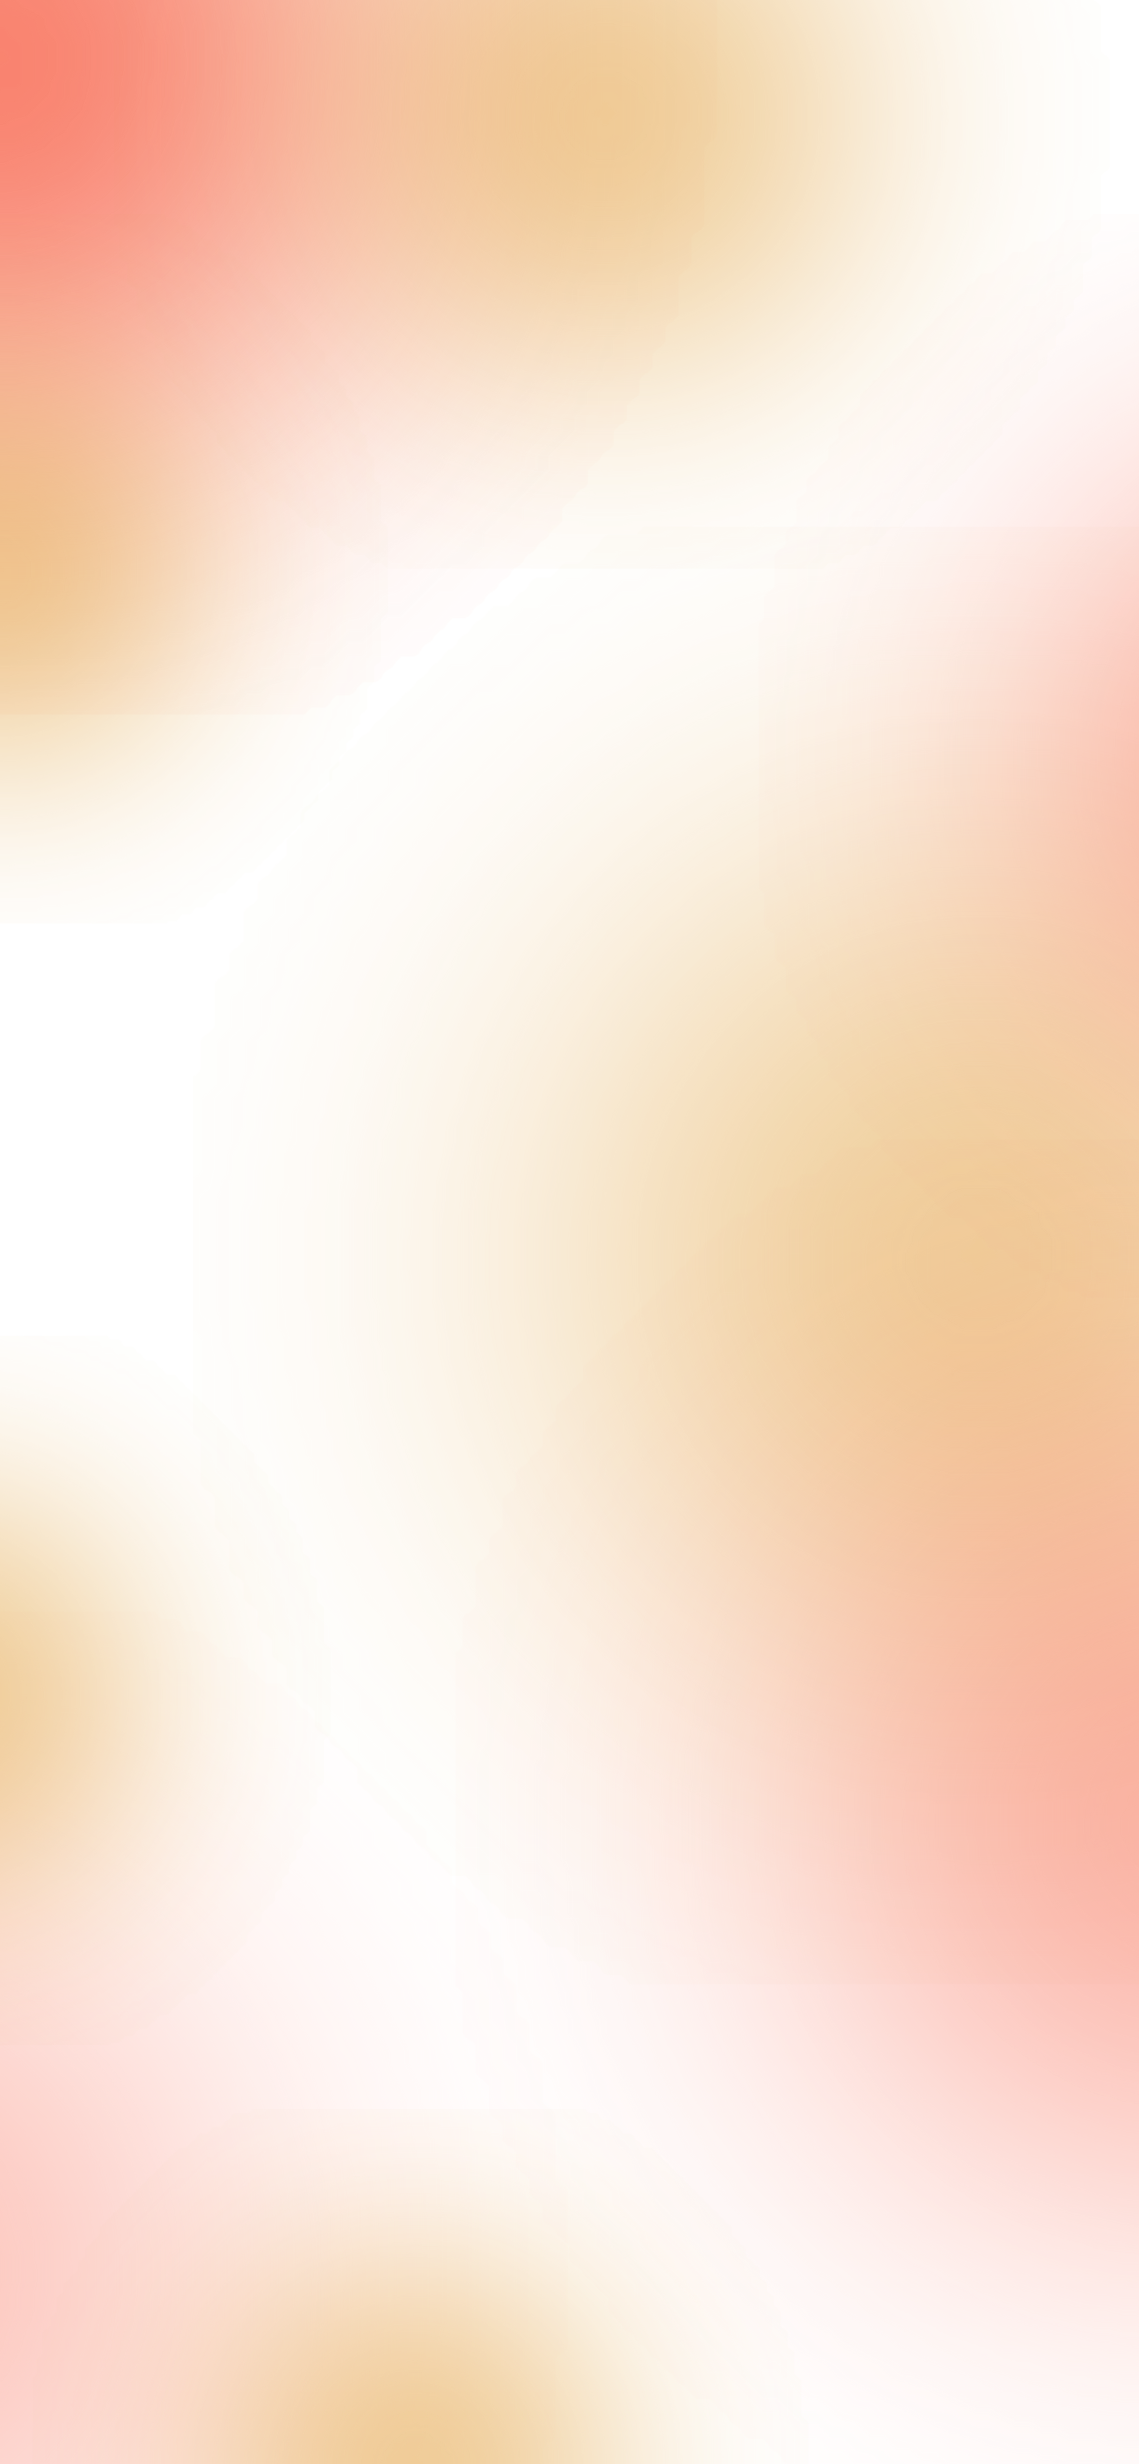
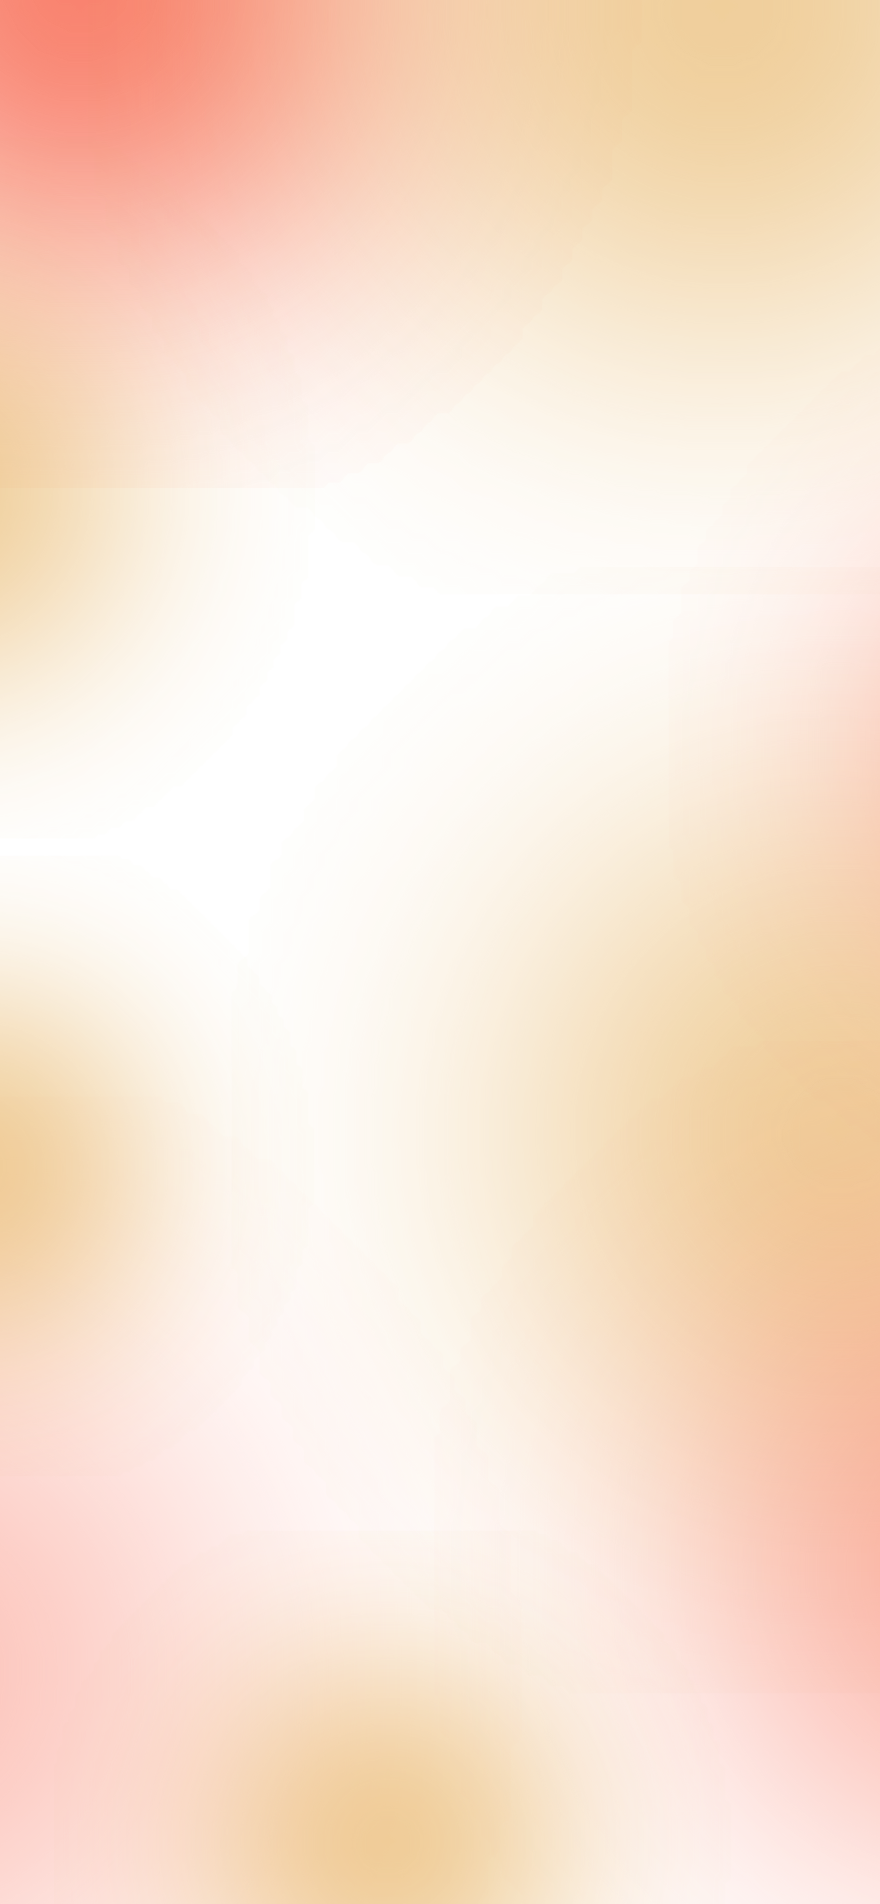
Logout and signin function
- Add Logout function
- Fix signin cancellation bug
- change background

diff --git a/screens/CalendarPage.js b/screens/CalendarPage.js
@@ -16,17 +16,19 @@ import FontAwesome5 from 'react-native-vector-icons/FontAwesome5';
 import FontAwesome from 'react-native-vector-icons/FontAwesome';
 import styles from '../styles/appStyles';
 import { TaskContext } from '../context/TaskContext';
+import { AuthContext } from '../context/AuthContext';
 import EditTaskModal from '../components/modals/EditTaskModal';
-import AsyncStorage from '@react-native-async-storage/async-storage';
 
 
 export default function CalendarPage () {
   const navigation = useNavigation();
   const { tasks, loadTasks, updateTask, deleteTask } = useContext(TaskContext);
+  const { signOut } = useContext(AuthContext);
   const [selectedDate, setSelectedDate] = useState('');
-  const [menuVisible, setMenuVisible] = useState(false);
   const [editModalVisible, setEditModalVisible] = useState(false);
   const [itemToEdit, setItemToEdit] = useState(null);
+  const [burgerMenuVisible, setBurgerMenuVisible] = useState(false);
+  const [profileMenuVisible, setProfileMenuVisible] = useState(false);
 
   // Load tasks on component mount
   useEffect(() => {
@@ -49,14 +51,45 @@ export default function CalendarPage () {
   }, [navigation, loadTasks]);
 
   //=========== Burger Menu ============//
-  const toggleMenu = () => {
-    setMenuVisible(!menuVisible);
+  const toggleBurgerMenu = () => {
+    setBurgerMenuVisible(!burgerMenuVisible);
   }
 
   const handleMenuItemPress = (screen, stepIdx) => {
-    setMenuVisible(false);
+    setBurgerMenuVisible(false);
 
     navigation.navigate(screen, {initialStep: stepIdx});
+  }
+  //===================================//
+
+  //=========== Profile Menu ============//
+  const toggleProfileMenu = () => {
+    setProfileMenuVisible(!profileMenuVisible);
+  }
+
+  const handleLogout = async () => {
+    setProfileMenuVisible(false);
+    Alert.alert(
+      'Log Out',
+      'Are you sure you want to log out?',
+      [
+        {
+          text: 'Cancel',
+          style: 'cancel'
+        },
+        {
+          text: 'Log Out',
+          onPress: async () => {
+            await signOut();
+            navigation.reset({
+              index: 0,
+              routes: [{ name: 'Welcome' }],
+            });
+          },
+          style: 'destructive'
+        }
+      ]
+    );
   }
   //===================================//
 
@@ -311,13 +344,13 @@ export default function CalendarPage () {
           {/* ----- App Header (menu, title, profile) ----- */}
           <View style={styles.headerRow}>
             <View style={styles.leftHeader}>
-              <TouchableOpacity onPress={toggleMenu}>
+              <TouchableOpacity onPress={toggleBurgerMenu}>
                 <FontAwesome5 name="bars" size={22} color="#461F04" />
               </TouchableOpacity>
             </View>
 
             {/* -------- Burger Menu Dropdown -------- */}
-            {menuVisible && (
+            {burgerMenuVisible && (
               <View style={styles.burgerMenu}>
                 <TouchableOpacity 
                   style={[styles.menuItem,{
@@ -327,7 +360,6 @@ export default function CalendarPage () {
                   onPress={() => handleMenuItemPress('MultiStep', 0)}>
                   <Text style={styles.menuText}>Semester</Text>
                 </TouchableOpacity>
-
                 <TouchableOpacity 
                   style={[styles.menuItem,{
                     borderBottomWidth: 1,
@@ -343,22 +375,34 @@ export default function CalendarPage () {
                   <Text style={styles.menuText}>Free Time</Text>
                 </TouchableOpacity>
               </View>
+              
             )}
 
             <View style={styles.titleWrap}>
               <Text style={styles.headerTitle}>Tomo Time</Text>
             </View>
-
-            <LinearGradient
-              colors={['#FF3F41', '#FFBE5B']}
-              start={{ x: 0, y: 0 }}
-              end={{ x: 1, y: 1 }}
-              style={styles.gradientContainer}
-            >
-              <View style={styles.profileCircle}>
-                <FontAwesome5 name="user-alt" size={18} color="#BE1C1C" />
+            
+            <TouchableOpacity onPress={toggleProfileMenu}>
+              <LinearGradient
+                colors={['#FF5F6D', '#FFC371']} // Your gradient colors
+                start={{ x: 0, y: 1 }}
+                end={{ x: 1, y: 0 }}
+                style={styles.gradientContainer}
+              >
+                  <Image source={require('../assests/images/default-profile.jpg')} style={styles.profileCircle} />
+              </LinearGradient>  
+            </TouchableOpacity>
+            
+            {/* ---------- Profile Menu Dropdown ---------- */}
+            {profileMenuVisible && (
+              <View style={styles.profileMenu}>
+                <TouchableOpacity 
+                  style={styles.menuItem}
+                  onPress={handleLogout}>
+                  <Text style={styles.menuText}>Log out</Text>
+                </TouchableOpacity>
               </View>
-            </LinearGradient>
+            )}
           </View>
 
           <View style={{ alignItems: 'center' }}>

diff --git a/screens/MultiStep.js b/screens/MultiStep.js
@@ -90,13 +90,11 @@ const stepsIndicatorStyles = {
 
 export default function MultiStep({ navigation, route}) {
 
-   //=============== USE STATES FOR INITIALIZATION ======//
+  const [profileMenuVisible, setProfileMenuVisible] = useState(false);
+  const { signOut } = useContext(AuthContext);
   const [semesters, setSemesters] = useState([]); //initialize as empty arrays
   const [classes, setClasses] = useState([]);
-  const [freeTime, setFreeTime] =useState([]);
-
-  //=============================================//
-  // =========== Use States ============ //
+  const [freeTime, setFreeTime] = useState([]);
   const [currentPosition, setCurrentPosition] = useState(0);// Step Indicator Posistion
   const [addModalVisible, setAddModalVisible] = useState(false); // Add New Item Modal Visibility
   const [editModalVisible, setEditModalVisible] = useState(false); // Edit Item Modal Visibility
@@ -107,13 +105,38 @@ export default function MultiStep({ navigation, route}) {
     step1Complete: false,
     step2Complete: false
   });
-  // =================================== //
-  
-  // Get AuthContext
   const { completeMultiStep } = useContext(AuthContext);
-  
-  //================================================//
 
+  //=========== Profile Menu ============//
+    const toggleProfileMenu = () => {
+      setProfileMenuVisible(!profileMenuVisible);
+    }
+  
+    const handleLogout = async () => {
+      setProfileMenuVisible(false);
+      Alert.alert(
+        'Log Out',
+        'Are you sure you want to log out?',
+        [
+          {
+            text: 'Cancel',
+            style: 'cancel'
+          },
+          {
+            text: 'Log Out',
+            onPress: async () => {
+              await signOut();
+              navigation.reset({
+                index: 0,
+                routes: [{ name: 'Welcome' }],
+              });
+            },
+            style: 'destructive'
+          }
+        ]
+      );
+    }
+    //===================================//
  
 
   //====== ASYNC STORAGE FUNCS -======//
@@ -628,7 +651,7 @@ export default function MultiStep({ navigation, route}) {
         </View>
 
         {/* ----- Profile Circle ----- */}
-        <TouchableOpacity>
+        <TouchableOpacity onPress={toggleProfileMenu}>
           <LinearGradient
             colors={['#FF5F6D', '#FFC371']} // Your gradient colors
             start={{ x: 0, y: 1 }}
@@ -639,6 +662,16 @@ export default function MultiStep({ navigation, route}) {
           </LinearGradient>  
         </TouchableOpacity>
         {/* ----- End of Profile Circle ----- */}
+
+        {profileMenuVisible && (
+          <View style={styles.profileMenu}>
+            <TouchableOpacity 
+              style={styles.menuItem}
+              onPress={handleLogout}>
+              <Text style={styles.menuText}>Log out</Text>
+            </TouchableOpacity>
+          </View>
+        )}
       </View>
       {/* -------- End of Header -------- */}
 

diff --git a/App.js b/App.js
@@ -1,4 +1,4 @@
-import React, { useEffect, useContext } from 'react';
+import React, { useEffect, useContext, useRef, useState } from 'react';
 import { NavigationContainer } from '@react-navigation/native';
 import { createNativeStackNavigator } from '@react-navigation/native-stack';
 import { GoogleSignin } from '@react-native-google-signin/google-signin';
@@ -26,11 +26,37 @@ const configureGoogleSignIn = () => {
 
 const Stack = createNativeStackNavigator();
 
+const NAVIGATION_STATE_KEY = '@TomoTime:navigation_state';
+
 // Navigation component that has access to AuthContext
 const AppNavigator = () => {
   const { user, isMultiStepComplete, isLoading } = useContext(AuthContext);
+  const [isNavigationReady, setIsNavigationReady] = useState(false);
+  const [initialState, setInitialState] = useState();
 
-  if (isLoading) {
+  // Load persisted navigation state
+  useEffect(() => {
+    const restoreState = async () => {
+      try {
+        const savedStateString = await AsyncStorage.getItem(NAVIGATION_STATE_KEY);
+        const state = savedStateString ? JSON.parse(savedStateString) : undefined;
+
+        if (state !== undefined) {
+          setInitialState(state);
+        }
+      } catch (e) {
+        console.error('Failed to restore navigation state:', e);
+      } finally {
+        setIsNavigationReady(true);
+      }
+    };
+
+    if (!isLoading) {
+      restoreState();
+    }
+  }, [isLoading]);
+
+  if (isLoading || !isNavigationReady) {
     return (
       <View style={{ flex: 1, justifyContent: 'center', alignItems: 'center', backgroundColor: '#FFF9F0' }}>
         <ActivityIndicator size="large" color="#FF3F41" />
@@ -40,23 +66,29 @@ const AppNavigator = () => {
   }
 
   // Determine initial route based on auth state
-  let initialRoute = 'Welcome';
+  let initialRouteName = 'Welcome';
   
   if (user) {
     // User is signed in
     if (isMultiStepComplete) {
       // User has completed setup, go to main app
-      initialRoute = 'CalendarPage';
+      initialRouteName = 'CalendarPage';
     } else {
       // User needs to complete setup
-      initialRoute = 'MultiStep';
+      initialRouteName = 'MultiStep';
     }
   }
 
   return (
-    <NavigationContainer>
+    <NavigationContainer
+      initialState={initialState}
+      onStateChange={(state) => {
+        // Save navigation state to AsyncStorage whenever it changes
+        AsyncStorage.setItem(NAVIGATION_STATE_KEY, JSON.stringify(state));
+      }}
+    >
       <Stack.Navigator
-        initialRouteName={initialRoute}
+        initialRouteName={initialRouteName}
         screenOptions={{
           headerTransparent: true,
           headerShadowVisible: false,

diff --git a/context/AuthContext.js b/context/AuthContext.js
@@ -6,6 +6,7 @@ import { GoogleSignin } from '@react-native-google-signin/google-signin';
 // Storage keys
 const USER_KEY = '@TomoTime:user';
 const MULTISTEP_COMPLETE_KEY = '@TomoTime:multistep_complete';
+const NAVIGATION_STATE_KEY = '@TomoTime:navigation_state';
 
 // 1. Create the Context
 export const AuthContext = createContext();
@@ -25,13 +26,13 @@ export const AuthProvider = ({ children }) => {
     try {
       setIsLoading(true);
       
-      // Check if user is signed in
-      const isSignedIn = await GoogleSignin.isSignedIn();
+      // Check AsyncStorage for user data instead of using GoogleSignin
+      const isSignedIn = await AsyncStorage.getItem(USER_KEY);
       
       if (isSignedIn) {
-        // Get current user info
-        const userInfo = await GoogleSignin.signInSilently();
-        setUser(userInfo.data.user);
+        // User data exists in storage
+        const userData = JSON.parse(isSignedIn);
+        setUser(userData);
         
         // Check if MultiStep is complete
         const multiStepStatus = await AsyncStorage.getItem(MULTISTEP_COMPLETE_KEY);
@@ -61,6 +62,7 @@ export const AuthProvider = ({ children }) => {
     try {
       await GoogleSignin.signOut();
       await AsyncStorage.removeItem(USER_KEY);
+      await AsyncStorage.removeItem(NAVIGATION_STATE_KEY);
       setUser(null);
       setIsMultiStepComplete(false);
     } catch (error) {

diff --git a/screens/Welcome.js b/screens/Welcome.js
@@ -27,9 +27,9 @@ export default function Welcome ()  {
     try {
       await GoogleSignin.hasPlayServices(); 
       const userDetails = await GoogleSignin.signIn(); 
-      setUserInfo(userDetails);
 
-      if (userDetails.type === 'success') {
+      if (userDetails && userDetails.type === 'success') {
+        setUserInfo(userDetails);
         // Use AuthContext signIn method
         await signIn(userDetails.data.user);
         
@@ -43,12 +43,13 @@ export default function Welcome ()  {
             }
           ]
         );
-      } else {
+      } else if (userDetails) {
         Alert.alert('Sign in failed', `Unexpected response type: ${userDetails.type}`);
       }
     } catch (error) {
       if (error.code === statusCodes.SIGN_IN_CANCELLED) {
-        Alert.alert('Sign-In Cancelled', 'User cancelled the sign-in flow');
+        // User cancelled - just log it, no alert needed
+        console.log('User cancelled the sign-in flow');
       } else if (error.code === statusCodes.IN_PROGRESS) {
         Alert.alert('Sign-In In Progress', 'Sign in is already in progress');
       } else if (error.code === statusCodes.PLAY_SERVICES_NOT_AVAILABLE) {

diff --git a/styles/appStyles.js b/styles/appStyles.js
@@ -362,6 +362,20 @@ const styles = StyleSheet.create({
     fontWeight: '500',
     textAlign: 'center',
   },
+  //=================================//
+
+  //========== Profile Menu ==========//
+  profileMenu: {
+    position: 'absolute', // This makes it float
+    top: 60, // Adjust distance from top to align with profile icon
+    right: 5, // Align with right margin
+    backgroundColor: '#b91c1c', // The deep red color
+    borderRadius: 10,
+    paddingVertical: 5,
+    width: 150,
+    elevation: 10,
+    zIndex: 100, // Forces it to be on top of everything else
+  },
 
   //========= Chat AI Screen: Hero & Chat Layout =========//
   chatHeroWrap: {
